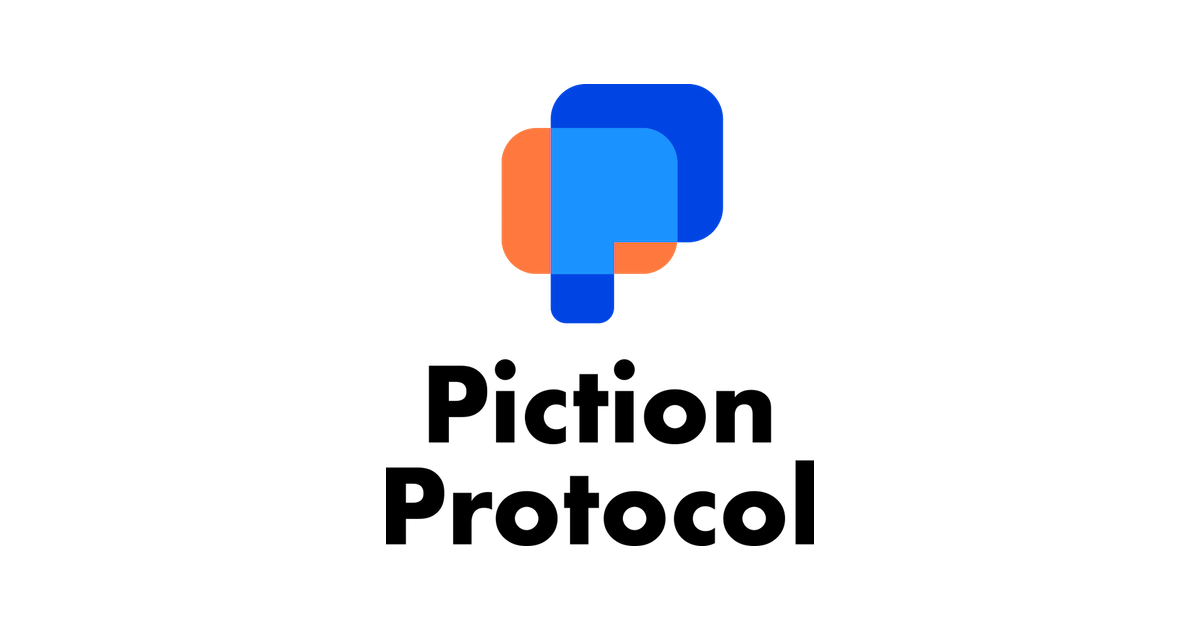
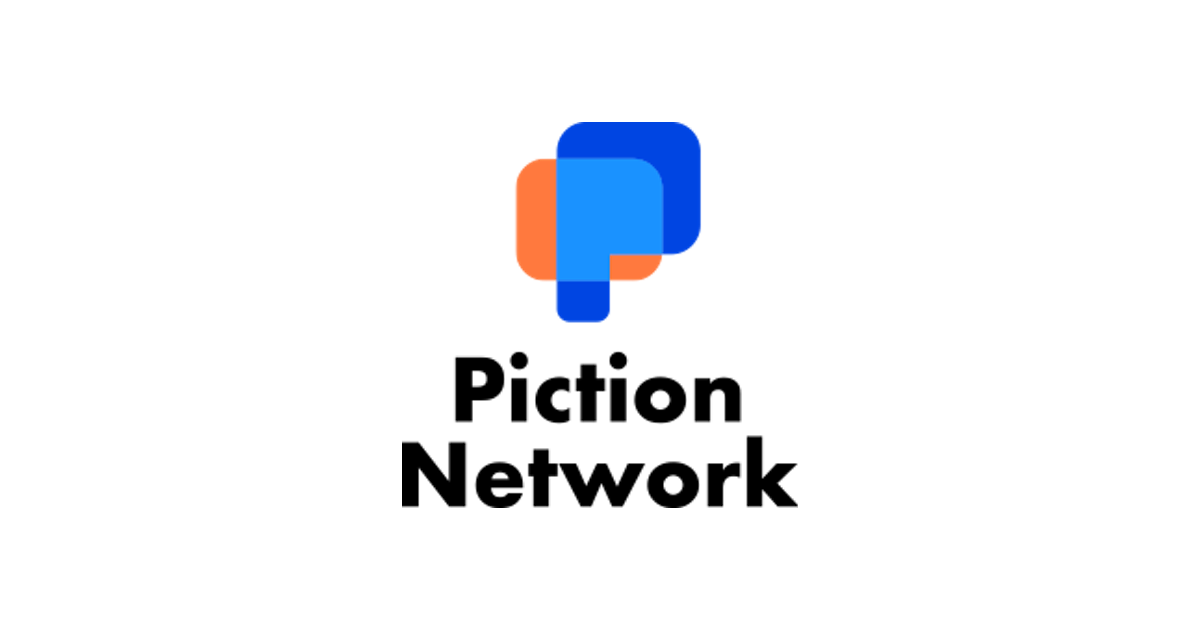
Change Names

Changed region(s): [[0.3083, 0.5429, 0.6783, 0.8746], [0.4008, 0.1206, 0.6167, 0.5127]]

diff --git a/components/sections/EcosystemPartners.js b/components/sections/EcosystemPartners.js
@@ -27,11 +27,6 @@ export default () => (
 
     <Row>
       <Col lg={4} md={6} sm={12}>
-        <EcosystemPartner name="Smilegate Stove" logo="static/ecosystem-partners/logo_smilegatestove.png" href="http://www.onstove.com/">
-          Smilegate Stove is the game platform development arm of Smilegate which has grown into a globally renowned company boosted by its success of its FPS game ‘Crossfire’. Smilegate Stove provides platform services where game users can share, experience and buy various contents that they have created. Smilegate Stove will be a content distributor by integrating Piction Protocol's SDK to allow Smilegate Stove to feature Piction's digital contents on their own platform.
-        </EcosystemPartner>
-      </Col>
-      <Col lg={4} md={6} sm={12}>
         <EcosystemPartner name="Maxim Comics" logo="static/ecosystem-partners/logo_maximcomics.png" href="http://comics.maximkorea.net">
           Maxim Comics is a subsidiary of Maxim Korea - one of the leading men’s magazine in Korea that has an annual publication of 1.5 million magazines a year. Maxim Comics publishes comics for mature audiences, primarily targeting male demographic segments. 
           Maxim Comics will be one of the contents distributor in Piction’s ecosystem and help to bring on board more of their existing use base to Piction Network.
@@ -54,12 +49,17 @@ export default () => (
       </Col>
       <Col lg={4} md={6} sm={12}>
         <EcosystemPartner name="Coinplug" logo="static/ecosystem-partners/logo_coinplug.png" href="https://www.coinplug.com/">
-          Coinplug is the world's 2nd, and Korea's 1st Blockchain Patent Holder - with a cumulative of 115 blockchain related patents in Korea and 46 international patents. It is founded by the finest engineers from both Silicon Valley and Korea, including Vitalik Buterin (Co-Founder of Ethereum) as a technical advisor. Coinplug has spearheaded an array of innovative blockchain solutions and has worked with many leading enterprises in Korea. Piction Protocol will be in close consultation with Coinplug to jointly develop the technical aspects in Piction Protocol.
+          Coinplug is the world's 2nd, and Korea's 1st Blockchain Patent Holder - with a cumulative of 115 blockchain related patents in Korea and 46 international patents. It is founded by the finest engineers from both Silicon Valley and Korea, including Vitalik Buterin (Co-Founder of Ethereum) as a technical advisor. Coinplug has spearheaded an array of innovative blockchain solutions and has worked with many leading enterprises in Korea. Piction Network will be in close consultation with Coinplug to jointly develop the technical aspects in Piction Network.
         </EcosystemPartner>
       </Col>
       <Col lg={4} md={6} sm={12}>
         <EcosystemPartner name="Metadium" logo="static/ecosystem-partners/logo_metadium.png" href="https://www.metadium.com/">
-          Metadium is the next-generation identity protocol layer of the internet powered by blockchain with "trustless trust". It supports a decentralized digital identity and acts as the robust heart of Metadium ecosystem to provide secure, next-generation identity. Piction Protocol will be integrating Metadium's identity verification SDK to provide KYC services to all participants in Piction Protocol.
+          Metadium is the next-generation identity protocol layer of the internet powered by blockchain with "trustless trust". It supports a decentralized digital identity and acts as the robust heart of Metadium ecosystem to provide secure, next-generation identity. Piction Network will be integrating Metadium's identity verification SDK to provide KYC services to all participants in Piction Network.
+        </EcosystemPartner>
+      </Col>
+      <Col lg={4} md={6} sm={12}>
+        <EcosystemPartner name="B-Seed Partners" logo="static/ecosystem-partners/logo_bseed.png" href="https://www.coinplug.com/">
+          B-Seed Partners is a seed accelerator for fintech and blockchain technology companies. In the ever complex and rapidly evolving technology environment, B-Seed Partners provides companies with the necessary financial capital, legal advice as well as mentorship in strategy, operations, system development and IR.
         </EcosystemPartner>
       </Col>
     </Row>

diff --git a/components/sections/solutions.js b/components/sections/solutions.js
@@ -4,7 +4,7 @@ import SectionDescription from "../SectionDescription";
 
 export default () => (
   <section id="features">
-    <SectionHeading>Piction Protocol's Features</SectionHeading>
+    <SectionHeading>Piction Network's Features</SectionHeading>
     <Row>
       <Col lg={4} md={12}>
         <h4>Decentralized Digital Contents Platform</h4>
@@ -19,7 +19,7 @@ export default () => (
         <h4>Support by Community</h4>
         <ul>
           <li>
-            Artists require a stable production cost to eliminate the economic uncertainty in the production of their work. In Piction Protocol, community members are able to safely support into budding artists using Tokens and receive a cut of the production’s profits.
+            Artists require a stable production cost to eliminate the economic uncertainty in the production of their work. In Piction Network, community members are able to safely support into budding artists using Tokens and receive a cut of the production’s profits.
           </li>
         </ul>
       </Col>
@@ -28,7 +28,7 @@ export default () => (
         <h4>Greater Ancillary Support for Artists</h4>
         <ul>
           <li>
-            Through token economic incentives, Piction Protocol will help artists to leverage the power of the community. When supporters of an artist helps in marketing, translation and outreach beyond Piction Protocol to overseas markets and when these efforts convert into sales for the artist, these supporters would be rewarded with PXL Tokens.
+            Through token economic incentives, Piction Network will help artists to leverage the power of the community. When supporters of an artist helps in marketing, translation and outreach beyond Piction Network to overseas markets and when these efforts convert into sales for the artist, these supporters would be rewarded with PXL Tokens.
           </li>
         </ul>
       </Col>

diff --git a/components/footer.js b/components/footer.js
@@ -6,12 +6,17 @@ export default ({ contact }) => (
 
     <div className="footer__contact">
       <ul>
-        <li><a href="mailto:contact@piction.network">contact@piction.network</a></li>
+        <li>
+          <a className="footer__telegram" href="https://t.me/pictionnetwork">Telegram Channel</a>
+        </li>
+        <li>
+          <a href="mailto:contact@piction.network">contact@piction.network</a>
+        </li>
       </ul>
     </div>
 
     <div className="footer__copyright">
-      &copy; 2018 Piction Protocol. All rights reserved
+      &copy; 2018 Piction Network. All rights reserved
     </div>
     <style jsx>{`
       footer {
@@ -45,6 +50,7 @@ export default ({ contact }) => (
       }
 
       .footer__contact {
+        margin-top: 80px;
         margin-bottom: 120px;
       }
 
@@ -60,6 +66,21 @@ export default ({ contact }) => (
       .footer__copyright {
         color: #444444;
         font-size: 14px;
+      }
+
+      footer .footer__telegram {
+        display: inline-block;
+        color: var(--color-white);
+        background-color: var(--color-primary);
+        padding: 1em 2em;
+        border-radius: 2em;
+        color: var(--color-white);
+        box-shadow: var(--box-shadow);
+        margin-bottom: 1em;
+      }
+
+      footer .footer__telegram:hover {
+        color: var(--color-white);
       }
     `}</style>
   </footer>

diff --git a/components/meta.js b/components/meta.js
@@ -3,12 +3,12 @@ import Head from "next/head";
 export default ({locale}) => (
   <Head>
     <meta charSet="utf-8" />
-    <title>Piction Protocol</title>
+    <title>Piction Network</title>
     <meta name="description" content={locale.hero} />
     <meta name="viewport" content="width=device-width, initial-scale=1" />
 
-    <meta name="og:title" content="Piction Protocol" />
-    <meta name="og:description" content="Piction Protocol is creating a new peer to peer digital contents ecosystem. We are disrupting the centralized models of content distribution dominated by extractive intermediaries" />
+    <meta name="og:title" content="Piction Network" />
+    <meta name="og:description" content="Piction Network is creating a new peer to peer digital contents ecosystem. We are disrupting the centralized models of content distribution dominated by extractive intermediaries" />
     <meta name="og:image" content="/static/og.png" />
 
     <link rel="shortcut icon" href="/static/favicon.png" />

diff --git a/components/sections/battleentertainment.js b/components/sections/battleentertainment.js
@@ -68,7 +68,7 @@ export default () => (
     <div className="battleentertainment">
       <img src="static/battleent.svg" />
       <p className="battleentertainment__description">
-        Piction Protocol is led by <a href="https://www.battleent.com">Battle Entertainment</a> - a leading digital contents production and distribution platform from Korea and China with the experience, industry insights and trust from leading institutions.
+        Piction Network is led by <a href="https://www.battleent.com">Battle Entertainment</a> - a leading digital contents production and distribution platform from Korea and China with the experience, industry insights and trust from leading institutions.
       </p>
       <style jsx>{`
         img {

diff --git a/components/hero.js b/components/hero.js
@@ -2,7 +2,7 @@ export default ({locale}) => (
   <div className="hero">
     <img src="/static/logov.png" className="hero__logo" />
     <p className="hero__message" dangerouslySetInnerHTML={locale.message} />
-    <a className="hero__telegram" href="https://t.me/pictionprotocol">Telegram Channel</a>
+    <a className="hero__telegram" href="https://t.me/pictionnetwork">Telegram Channel</a>
     <style jsx>{`
       .hero {
         height: 100vh;

diff --git a/components/sections/advisors.js b/components/sections/advisors.js
@@ -31,6 +31,8 @@ const Advisor = ({name, bio, comment, photo}) => (
       height: 100px;
       box-shadow: 0 2px 4px 0 rgba(0, 0, 0, 0.08), 0 4px 12px 0 rgba(0, 0, 0, 0.08);
       filter: grayscale(100%);
+      flex-grow: 0;
+      flex-shrink: 0;
     }
 
     .advisor__profile {
